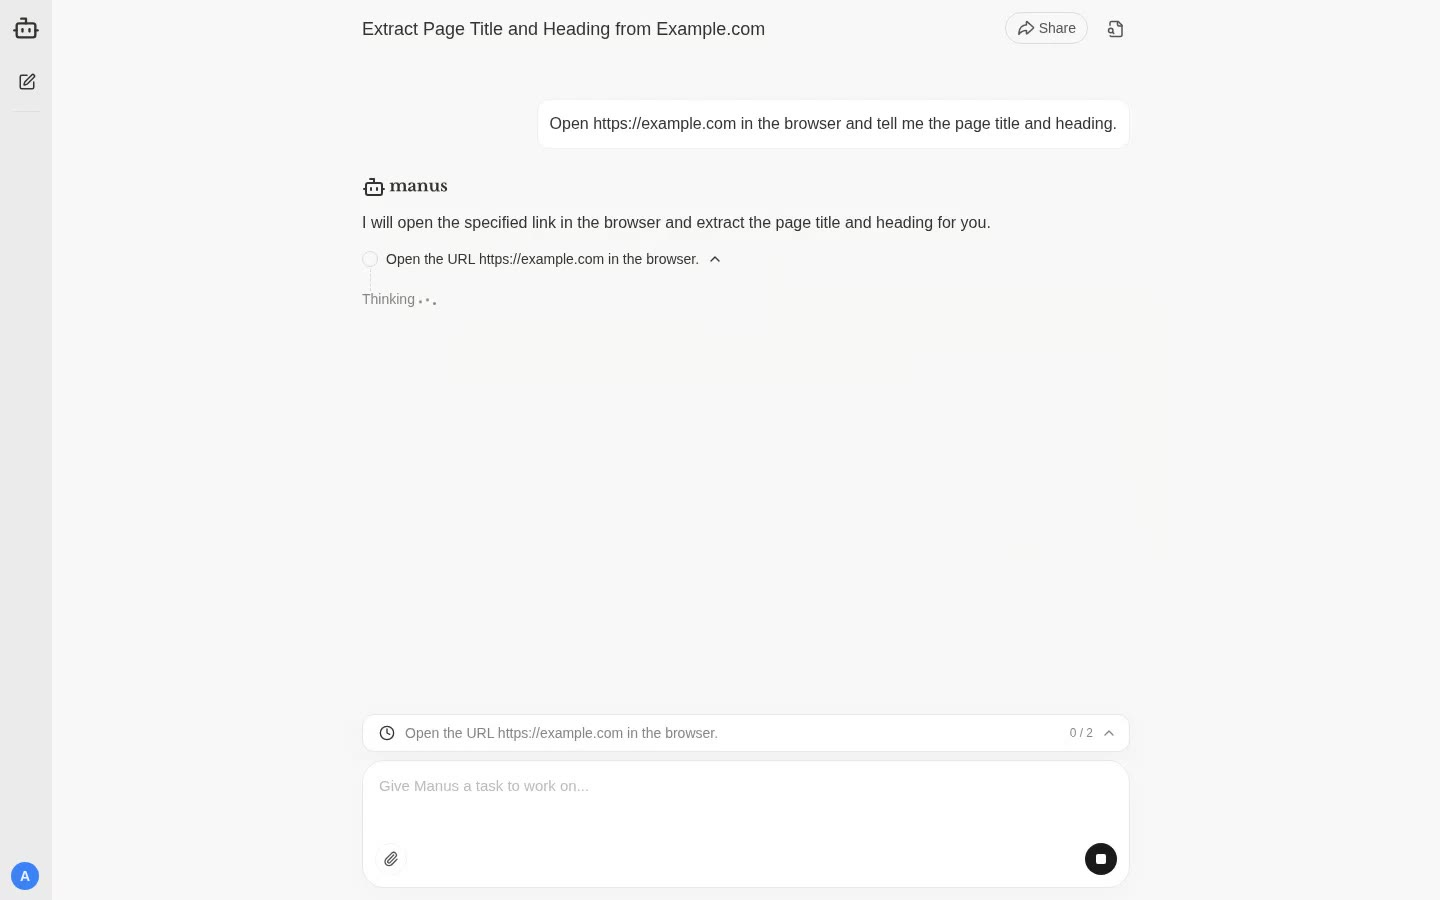
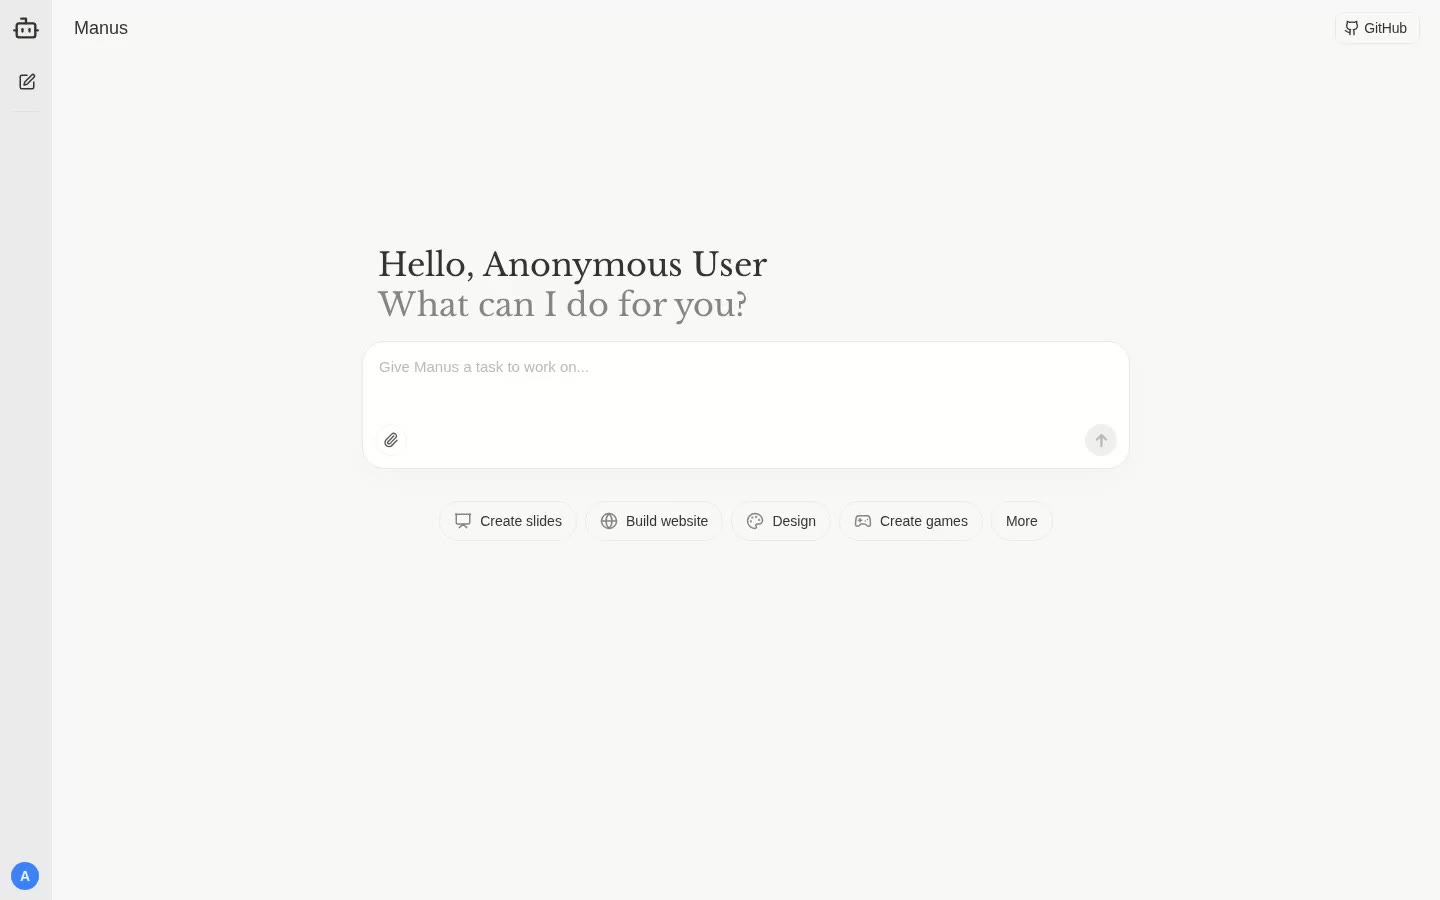
docs: trim white intro from demo MP4s and refresh attachment URLs
Cut ~1.5s blank page-load frames so README players open on the UI,
then re-upload via gh image.

diff --git a/.cursor/skills/demo-videos/SKILL.md b/.cursor/skills/demo-videos/SKILL.md
@@ -1,0 +1,158 @@
+---
+name: demo-videos
+description: >-
+  Record, upload, and sync README/Docsify demo MP4s for ai-manus. Use when
+  recording demos, updating demo videos, fixing README video embeds, working
+  with docs/demos.yml, gh image, user-attachments, or sync_demos.py.
+---
+
+# Demo Videos
+
+Keep README + Docsify demos in sync via `docs/demos.yml`. On **github.com**, only
+`https://github.com/user-attachments/assets/...` URLs render as inline MP4 players.
+
+## Hard rules
+
+| Do | Don't |
+|----|--------|
+| Put `user-attachments` URLs in `docs/demos.yml` `url` for README players | Expect Release / `raw.githubusercontent.com` / in-repo paths to auto-play in README |
+| Use `gh image` (browser `user_session`) to upload | Use `gh auth token` / PAT for Attachments — upload API rejects them |
+| Run `./update_doc.sh` after editing `demos.yml` | Hand-edit `<!-- demos:... -->` blocks |
+| Keep Release assets until new Attachment URLs are committed and verified | Delete a Release while README still points at it |
+
+`recordings/` is gitignored (local only). Optional checked-in copies: `docs/assets/demos/*.mp4`.
+
+## Key files
+
+| File | Role |
+|------|------|
+| `docs/demos.yml` | Source of truth (titles, tasks, `url`, optional `path`) |
+| `scripts/sync_demos.py` | Fills `<!-- demos:readme\|docsify:en\|zh -->` blocks |
+| `./update_doc.sh` | Doc embeds + runs `sync_demos.py` |
+| `docs/assets/demos/` | Optional MP4 backups / local paths |
+| `recordings/` | Local recordings (not committed) |
+
+## Workflow
+
+```
+Task Progress:
+- [ ] 1. Record / convert MP4
+- [ ] 2. Copy into docs/assets/demos/ (optional but recommended)
+- [ ] 3. Upload with gh image → user-attachments URLs
+- [ ] 4. Update docs/demos.yml
+- [ ] 5. ./update_doc.sh
+- [ ] 6. Verify players render
+```
+
+### 1. Record
+
+Produce MP4s under `recordings/` (e.g. Playwright + ffmpeg). Prefer short, clear demos:
+`basic.mp4`, `browser-use.mp4`, `code-use.mp4`.
+
+**Trim blank intros:** recordings often start with ~1–2s of solid white (page load).
+Before upload, cut until the first UI frame:
+
+```bash
+FFMPEG=$(python3 -c 'import imageio_ffmpeg; print(imageio_ffmpeg.get_ffmpeg_exe())')
+# adjust -ss if needed after inspecting first frames
+"$FFMPEG" -y -i in.mp4 -ss 1.5 -c:v libx264 -preset fast -crf 23 -an -movflags +faststart out.mp4
+```
+
+### 2. Stage under docs (optional)
+
+```bash
+mkdir -p docs/assets/demos
+cp recordings/basic.mp4 docs/assets/demos/basic.mp4
+# … browser-use, code-use
+```
+
+### 3. Upload for README players (`gh image`)
+
+```bash
+gh extension install drogers0/gh-image   # once
+gh image check-token                    # must print GitHub username
+gh image --repo Simpleyyt/ai-manus \
+  docs/assets/demos/basic.mp4 \
+  docs/assets/demos/browser-use.mp4 \
+  docs/assets/demos/code-use.mp4
+```
+
+Prints one bare URL per file (order = upload order), e.g.:
+
+```text
+https://github.com/user-attachments/assets/<uuid>
+```
+
+**Auth:** `gh image` reads the browser `user_session` cookie (Chrome/Firefox/…).  
+It does **not** use `gh auth login` / OAuth. If `check-token` fails:
+
+1. Open https://github.com in a supported browser — confirm avatar (logged in)
+2. Retry `gh image check-token`
+3. If still failing, Chrome may store cookies under an unusual profile path; ensure the active profile has `user_session` (not only `logged_in=no`)
+
+### 4. Update `docs/demos.yml`
+
+Set each demo’s `url` to the matching Attachment URL. Keep bilingual `title_*` / `task_*`.  
+Optional: `path: docs/assets/demos/....mp4` as a repo backup.
+
+Same Attachment URLs can be reused under the `docsify:` section.
+
+### 5. Sync
+
+```bash
+./update_doc.sh
+```
+
+Confirm `README.md`, `README_zh.md`, `docs/demo.md`, `docs/en/demo.md` updated.
+
+### 6. Verify
+
+```bash
+# Expect camera-video / <video> for each Attachment URL
+python3 - <<'PY'
+import json, subprocess, urllib.request
+from pathlib import Path
+token = subprocess.check_output(["gh", "auth", "token"], text=True).strip()
+md = Path("README.md").read_text().split("<!-- demos:readme:en -->")[1].split("<!-- /demos:readme:en -->")[0]
+req = urllib.request.Request(
+    "https://api.github.com/markdown",
+    data=json.dumps({"text": md, "mode": "gfm", "context": "Simpleyyt/ai-manus"}).encode(),
+    headers={
+        "Authorization": f"token {token}",
+        "Accept": "application/vnd.github+json",
+        "Content-Type": "application/json",
+    },
+)
+html = urllib.request.urlopen(req).read().decode()
+print("players:", html.count("camera-video"), "video tags:", html.count("<video"))
+assert html.count("camera-video") >= 1 or html.count("<video") >= 1
+PY
+```
+
+Then spot-check the PR/README preview on github.com.
+
+## Fallback options (worse README UX)
+
+Use only if Attachments are unavailable:
+
+| Approach | README result |
+|----------|----------------|
+| Release `releases/download/.../*.mp4` bare URL | Text link only |
+| HTML `<video src="release-or-raw">` | Stripped by GitHub sanitizer |
+| Poster JPG → in-repo MP4 link | Static frame; click opens blob player |
+| Short GIF in repo | Inline motion, no real controls |
+
+Docsify can still embed Release MP4s via `[](url ':include controls width="100%"')` even when README cannot.
+
+## Optional: Release mirror
+
+```bash
+gh release create demo-videos-YYYYMMDD docs/assets/demos/*.mp4 \
+  --title "Demo videos YYYY-MM-DD" --latest=false
+```
+
+Useful as CDN backup / Docsify source. **Do not delete** until `demos.yml` no longer references those download URLs.
+
+## Related
+
+- General doc sync (compose/env embeds): `.cursor/skills/update-docs/SKILL.md`

diff --git a/README.md b/README.md
@@ -23,19 +23,19 @@ Enjoy your own agent with AI Manus!
 <!-- demos:readme:en -->
 ### Basic Features
 
-https://github.com/user-attachments/assets/cbef4214-fa66-449d-b745-a151b67b5a76
+https://github.com/user-attachments/assets/251bfa39-53d0-41ae-9fc5-10bdec15c993
 
 ### Browser Use
 
 * Task: Open example.com and read the page title
 
-<https://github.com/user-attachments/assets/bd5520ad-a06b-4ced-bf33-f957d7d60df1>
+<https://github.com/user-attachments/assets/a28bc9d2-cbf0-46b3-8bc1-ecc0b4425060>
 
 ### Code Use
 
 * Task: Write a complex Python example
 
-<https://github.com/user-attachments/assets/065d6b56-0559-4c23-9f7e-84e710b353eb>
+<https://github.com/user-attachments/assets/7b39b828-ec27-4b8f-b5f7-527e29efbe48>
 <!-- /demos:readme:en -->
 
 ## Key Features

diff --git a/docs/demo.md b/docs/demo.md
@@ -5,19 +5,19 @@
 
 > 任务: Shell 输出 hello-manus
 
-[](https://github.com/user-attachments/assets/cbef4214-fa66-449d-b745-a151b67b5a76 ':include controls width="100%"')
+[](https://github.com/user-attachments/assets/251bfa39-53d0-41ae-9fc5-10bdec15c993 ':include controls width="100%"')
 
 
 ## Code Use
 
 > 任务: 写一个复杂的 Python 示例
 
-[](https://github.com/user-attachments/assets/065d6b56-0559-4c23-9f7e-84e710b353eb ':include controls width="100%"')
+[](https://github.com/user-attachments/assets/7b39b828-ec27-4b8f-b5f7-527e29efbe48 ':include controls width="100%"')
 
 
 ## Browser Use
 
 > 任务: 打开 example.com 并读取页面标题
 
-[](https://github.com/user-attachments/assets/bd5520ad-a06b-4ced-bf33-f957d7d60df1 ':include controls width="100%"')
+[](https://github.com/user-attachments/assets/a28bc9d2-cbf0-46b3-8bc1-ecc0b4425060 ':include controls width="100%"')
 <!-- /demos:docsify:zh -->

diff --git a/docs/en/demo.md b/docs/en/demo.md
@@ -5,19 +5,19 @@
 
 > Task: Shell echo hello-manus
 
-[](https://github.com/user-attachments/assets/cbef4214-fa66-449d-b745-a151b67b5a76 ':include controls width="100%"')
+[](https://github.com/user-attachments/assets/251bfa39-53d0-41ae-9fc5-10bdec15c993 ':include controls width="100%"')
 
 
 ## Code Use
 
 > Task: Write a complex Python example
 
-[](https://github.com/user-attachments/assets/065d6b56-0559-4c23-9f7e-84e710b353eb ':include controls width="100%"')
+[](https://github.com/user-attachments/assets/7b39b828-ec27-4b8f-b5f7-527e29efbe48 ':include controls width="100%"')
 
 
 ## Browser Use
 
 > Task: Open example.com and read the page title
 
-[](https://github.com/user-attachments/assets/bd5520ad-a06b-4ced-bf33-f957d7d60df1 ':include controls width="100%"')
+[](https://github.com/user-attachments/assets/a28bc9d2-cbf0-46b3-8bc1-ecc0b4425060 ':include controls width="100%"')
 <!-- /demos:docsify:en -->